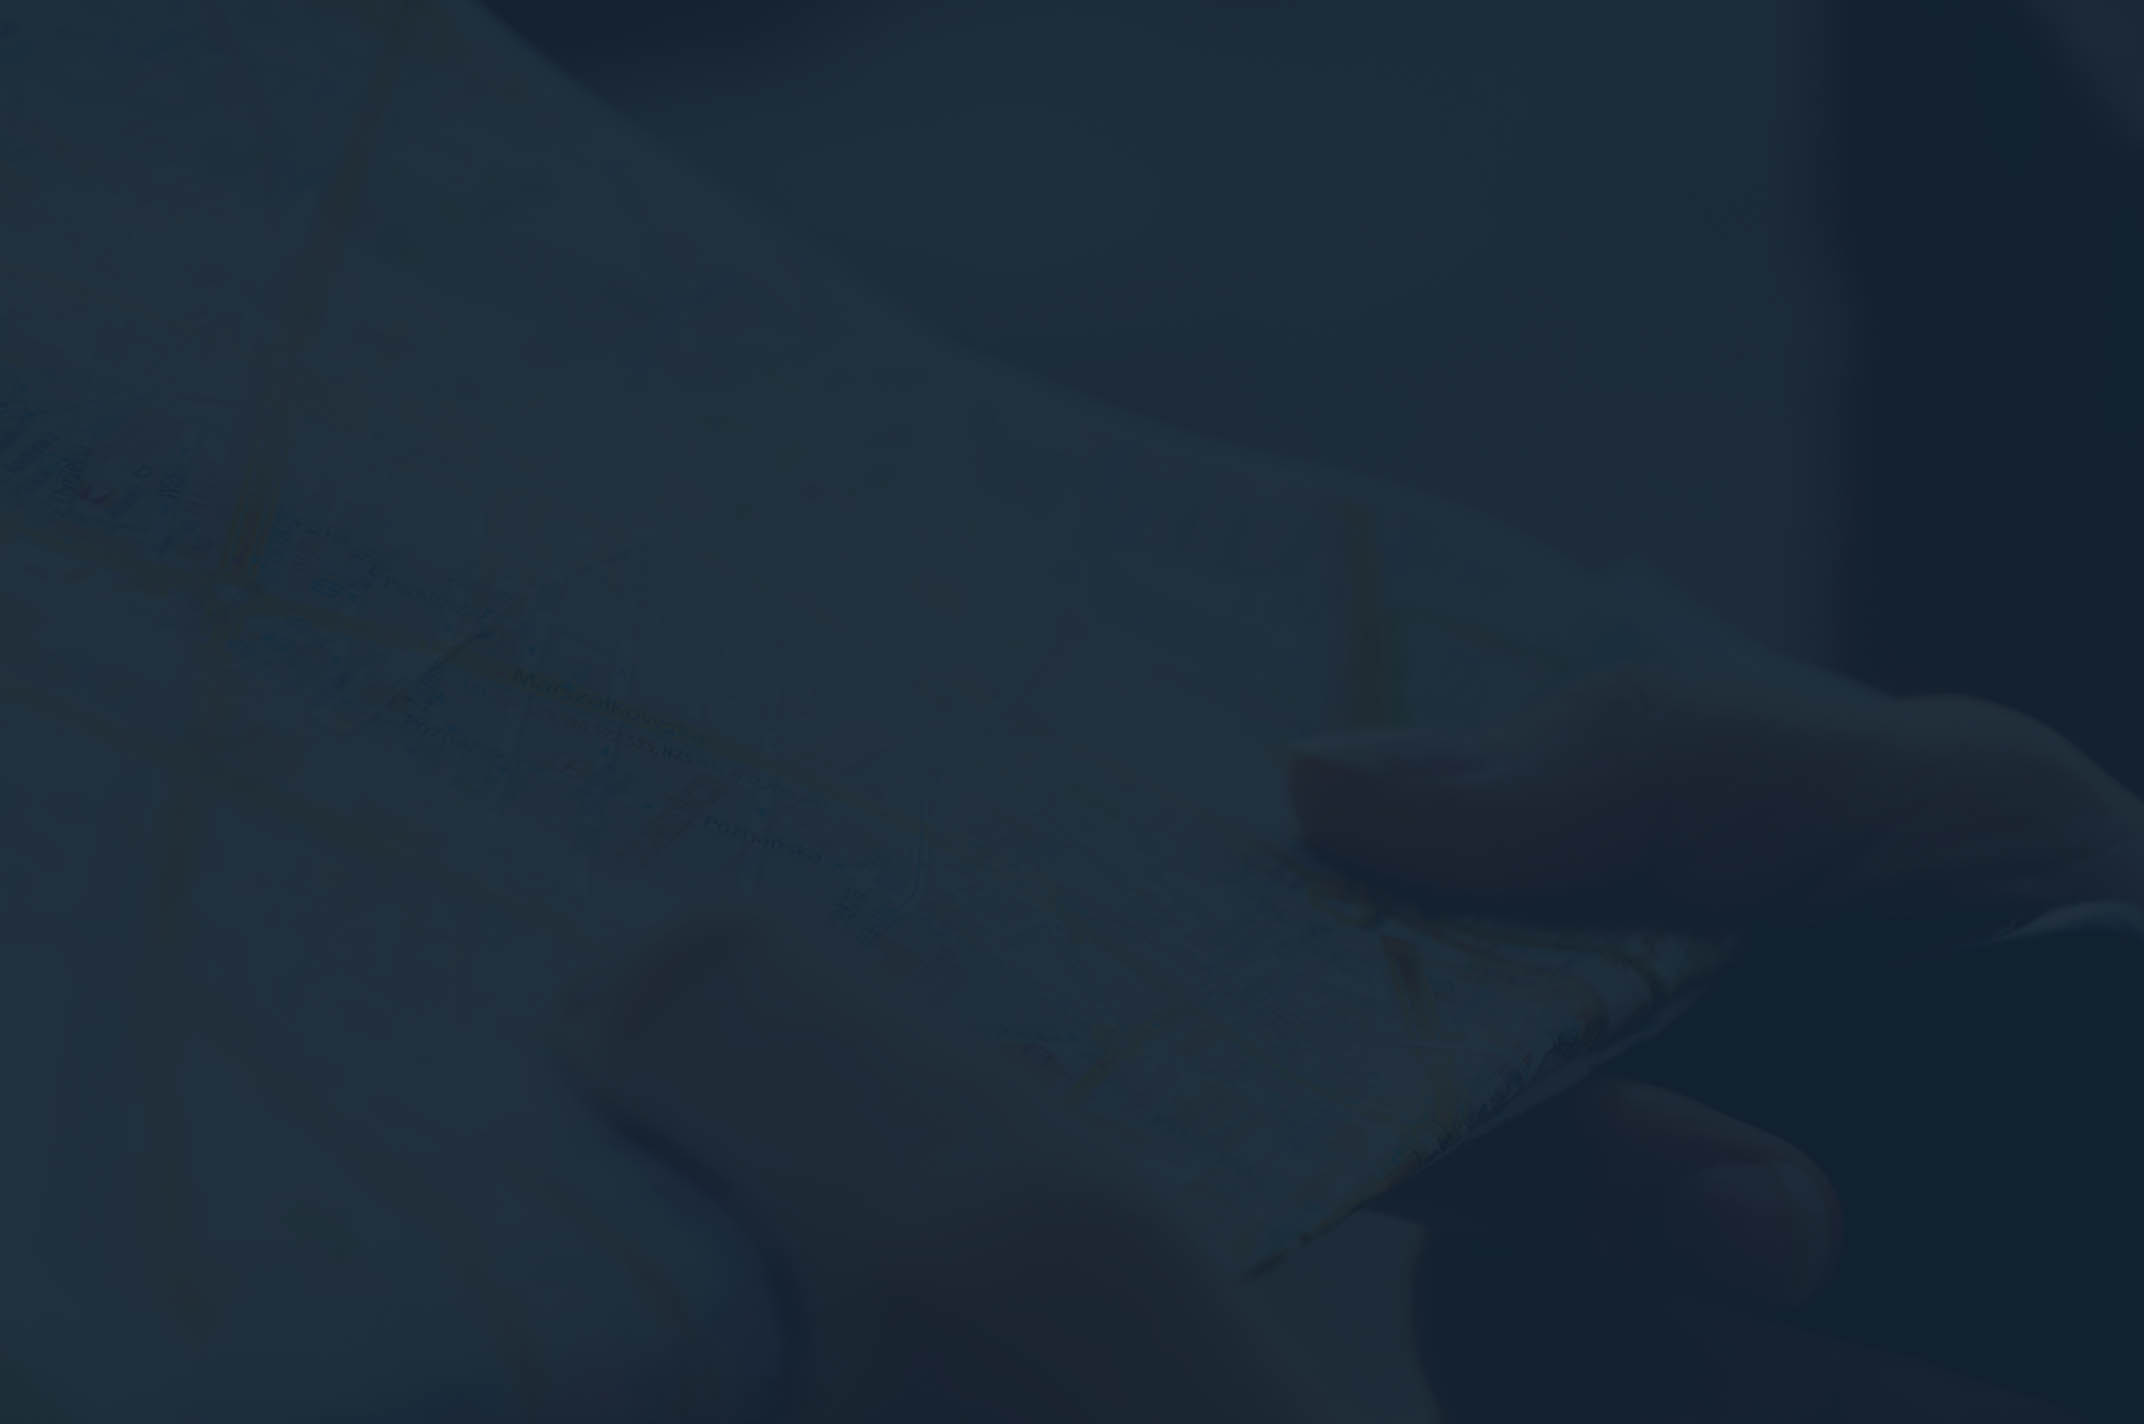
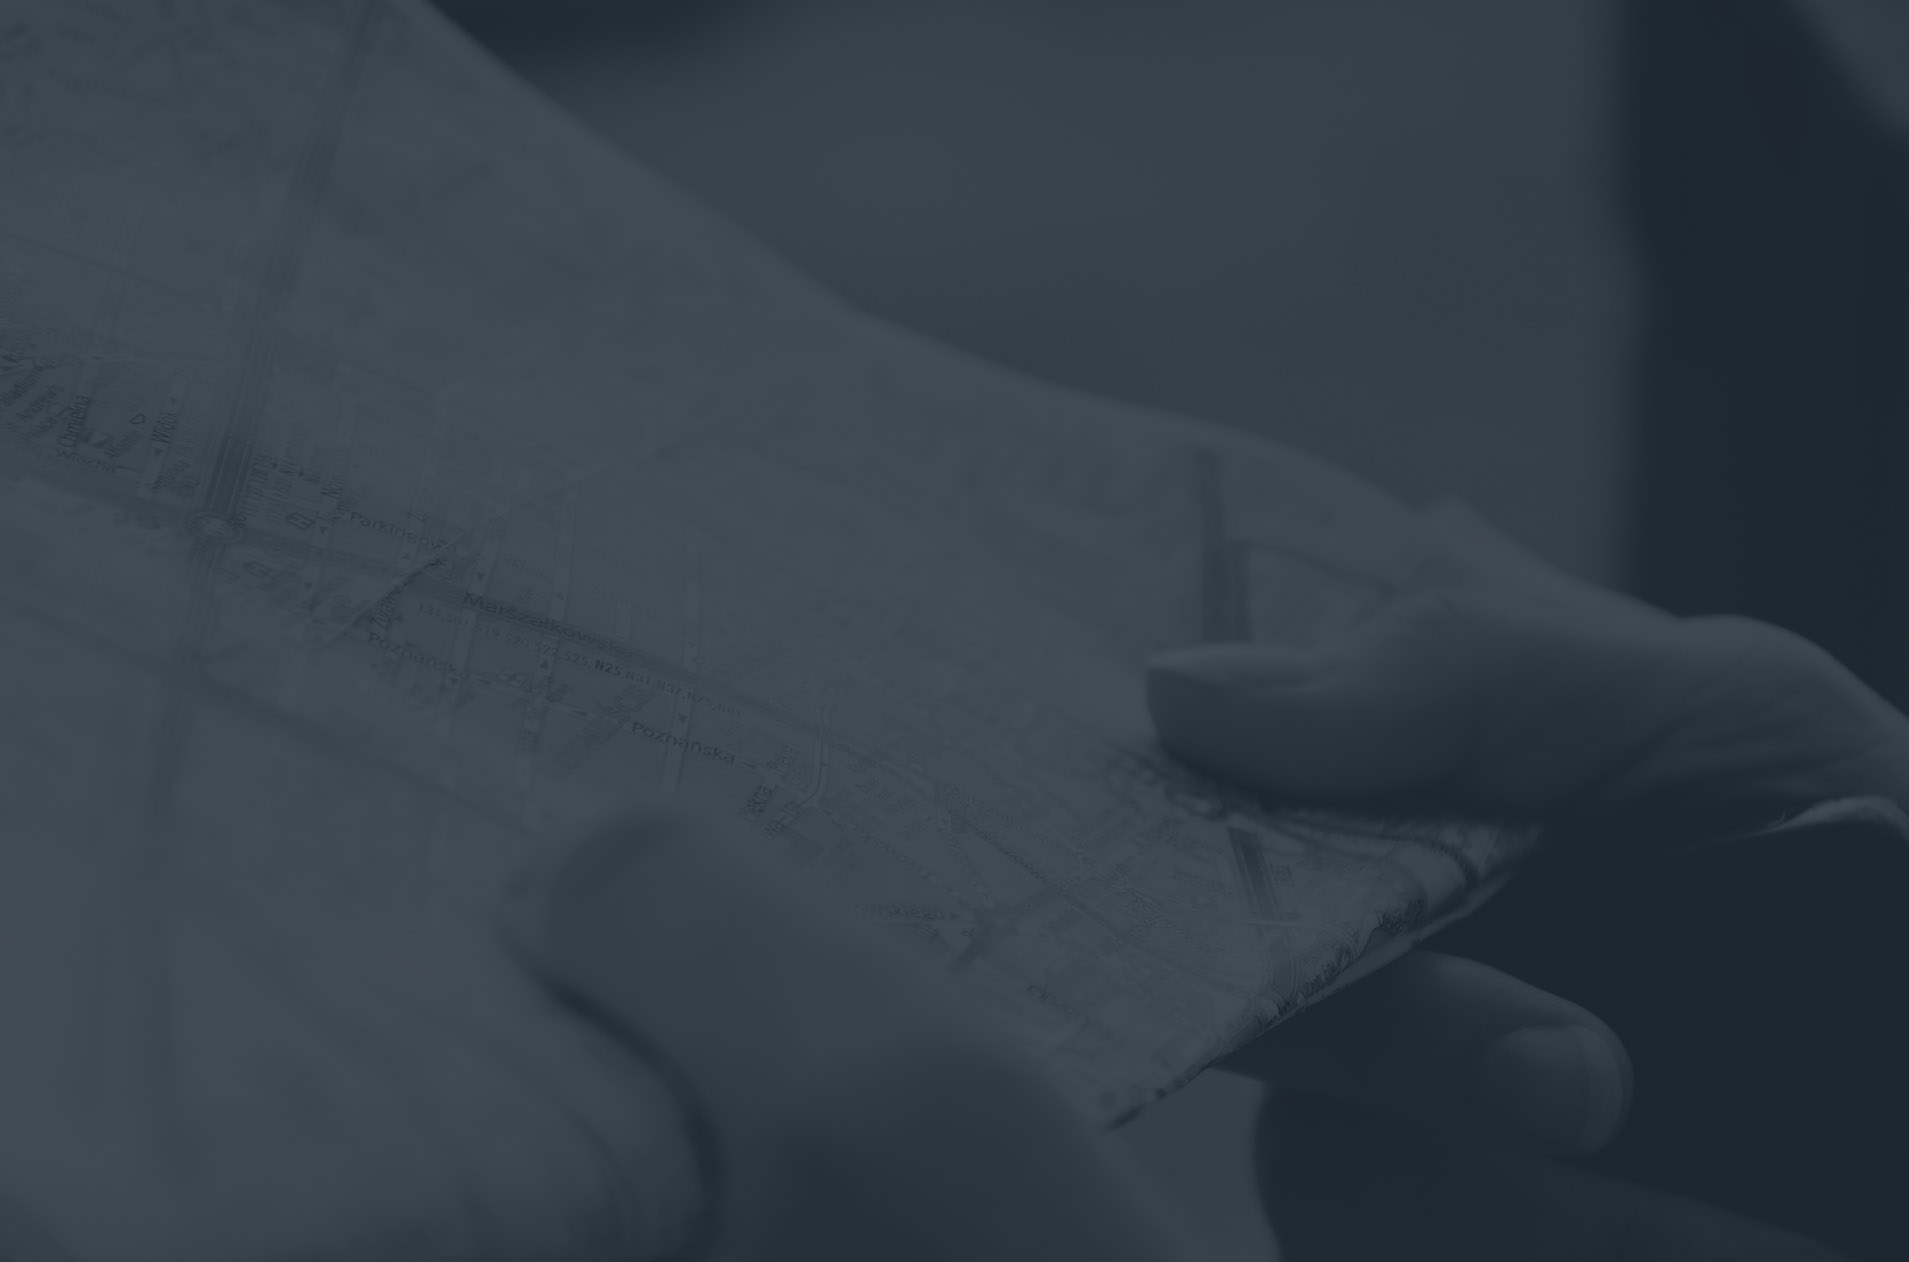
Edited CSS, landkaart foto aangepast, hover nav menu

diff --git a/drupal/sites/all/themes/ViaGo/css/style.css b/drupal/sites/all/themes/ViaGo/css/style.css
@@ -124,6 +124,7 @@ header strong{
  #block-system-user-menu ul {
   float: right;
   padding-right: 10px;
+  margin-left: 20px;
  }
 
 #block-system-user-menu ul.menu li
@@ -133,6 +134,19 @@ header strong{
   padding-top: 10px;
   /*padding-bottom: 10px;
   border-right: solid 0.5px #D8D8D8; */
+ }
+  #block-system-user-menu ul.menu li a:hover
+ {
+      padding-top: 27px;
+      padding-bottom: 27px;
+      padding-left: 10px;
+      padding-right: 10px;
+
+      background-color: #F1F1F1;
+      text-decoration: none;
+      color: #18bc9c;
+
+  
  }
 
   #block-system-user-menu h2 {
@@ -622,6 +636,7 @@ header .intro-text .skills {
 #lid{
    background-image: url("../img/hands_guide_blauw.jpg");
    background-repeat: no-repeat;
+   background-position: center; 
    background-size: 100%;
    text-align: center;
    color: white;
@@ -674,7 +689,7 @@ footer{
 }
 
 footer h3 {
-    font-size: 1em;
+    font-size: 1.3em;
     float: left;
 }
 
